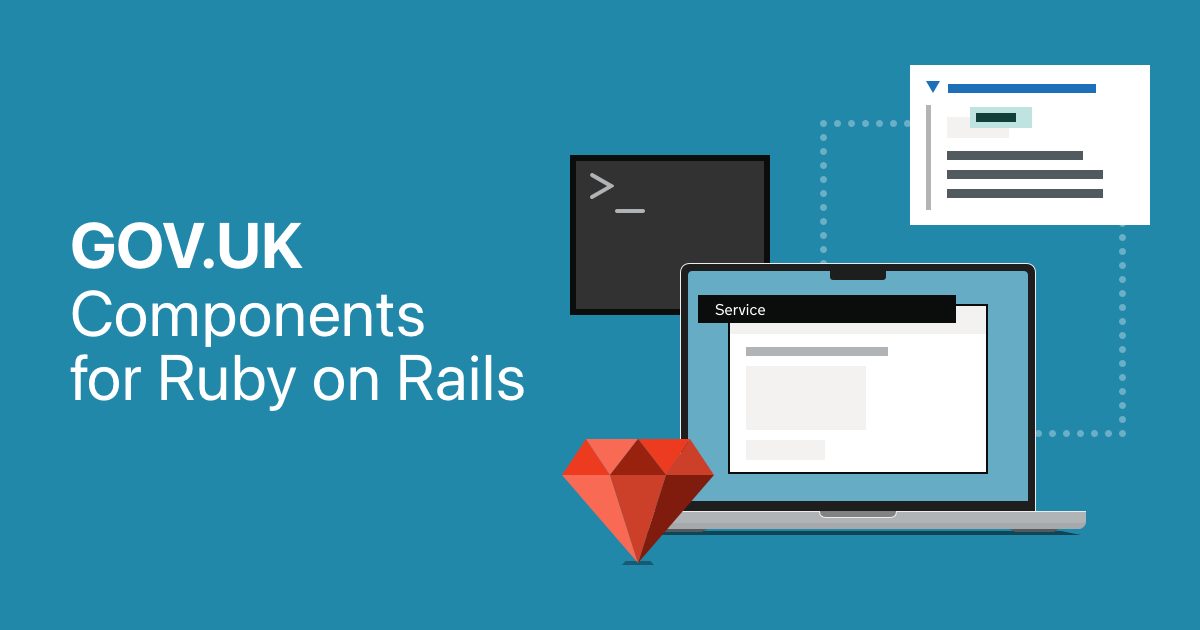
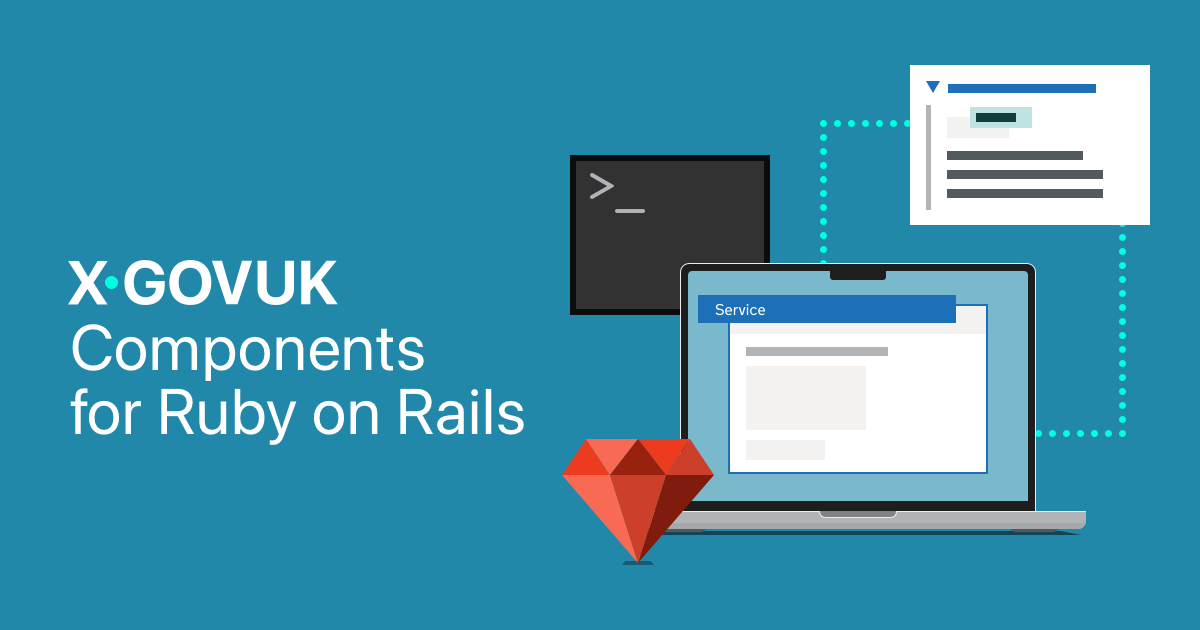
Implement X-GOVUK rebrand

diff --git a/guide/content/stylesheets/application.scss b/guide/content/stylesheets/application.scss
@@ -3,6 +3,8 @@ $app-iframe-mobile-height: 15rem;
 
 // GOV.UK Frontend options
 $govuk-global-styles: true;
+$govuk-new-organisation-colours: true;
+$govuk-new-typography-scale: true;
 $govuk-assets-path: "/assets/";
 $govuk-font-family: system-ui, sans-serif;
 $govuk-brand-colour: #2288aa;
@@ -12,7 +14,7 @@ $govuk-link-visited-colour: #333366;
 $govuk-page-width: 1100px;
 
 // Import GOV.UK Frontend
-@import "dist/govuk/all";
+@import "dist/govuk";
 
 // Import GOV.UK Prototype Components
 @import "x-govuk/components/masthead/masthead";
@@ -21,7 +23,6 @@ $govuk-page-width: 1100px;
 
 // Application components
 @import "components/example";
-@import "components/header";
 @import "components/highlight";
 @import "components/iframe";
 @import "components/list";
@@ -46,9 +47,15 @@ $govuk-page-width: 1100px;
     .govuk-table__body,
     .govuk-table__foot {
       > .govuk-table__row {
-        .border-left { border-left: 1px solid $govuk-border-colour; }
-        .thick-border-bottom { border-bottom: 3px solid $govuk-border-colour; }
-        .no-border-bottom { border-bottom: none }
+        .border-left {
+          border-left: 1px solid $govuk-border-colour;
+        }
+        .thick-border-bottom {
+          border-bottom: 3px solid $govuk-border-colour;
+        }
+        .no-border-bottom {
+          border-bottom: none;
+        }
       }
     }
   }
@@ -62,15 +69,21 @@ $govuk-page-width: 1100px;
         text-align: left;
         padding: govuk-spacing(2) govuk-spacing(4) govuk-spacing(2) 0;
 
-        &--numeric { text-align: right; }
+        &--numeric {
+          text-align: right;
+        }
       }
 
       &:last-of-type {
-        .govuk-table__header { border-bottom: none; }
+        .govuk-table__header {
+          border-bottom: none;
+        }
       }
 
       .govuk-table__footer {
-        &:last-child { padding-right: 0; }
+        &:last-child {
+          padding-right: 0;
+        }
       }
     }
   }
